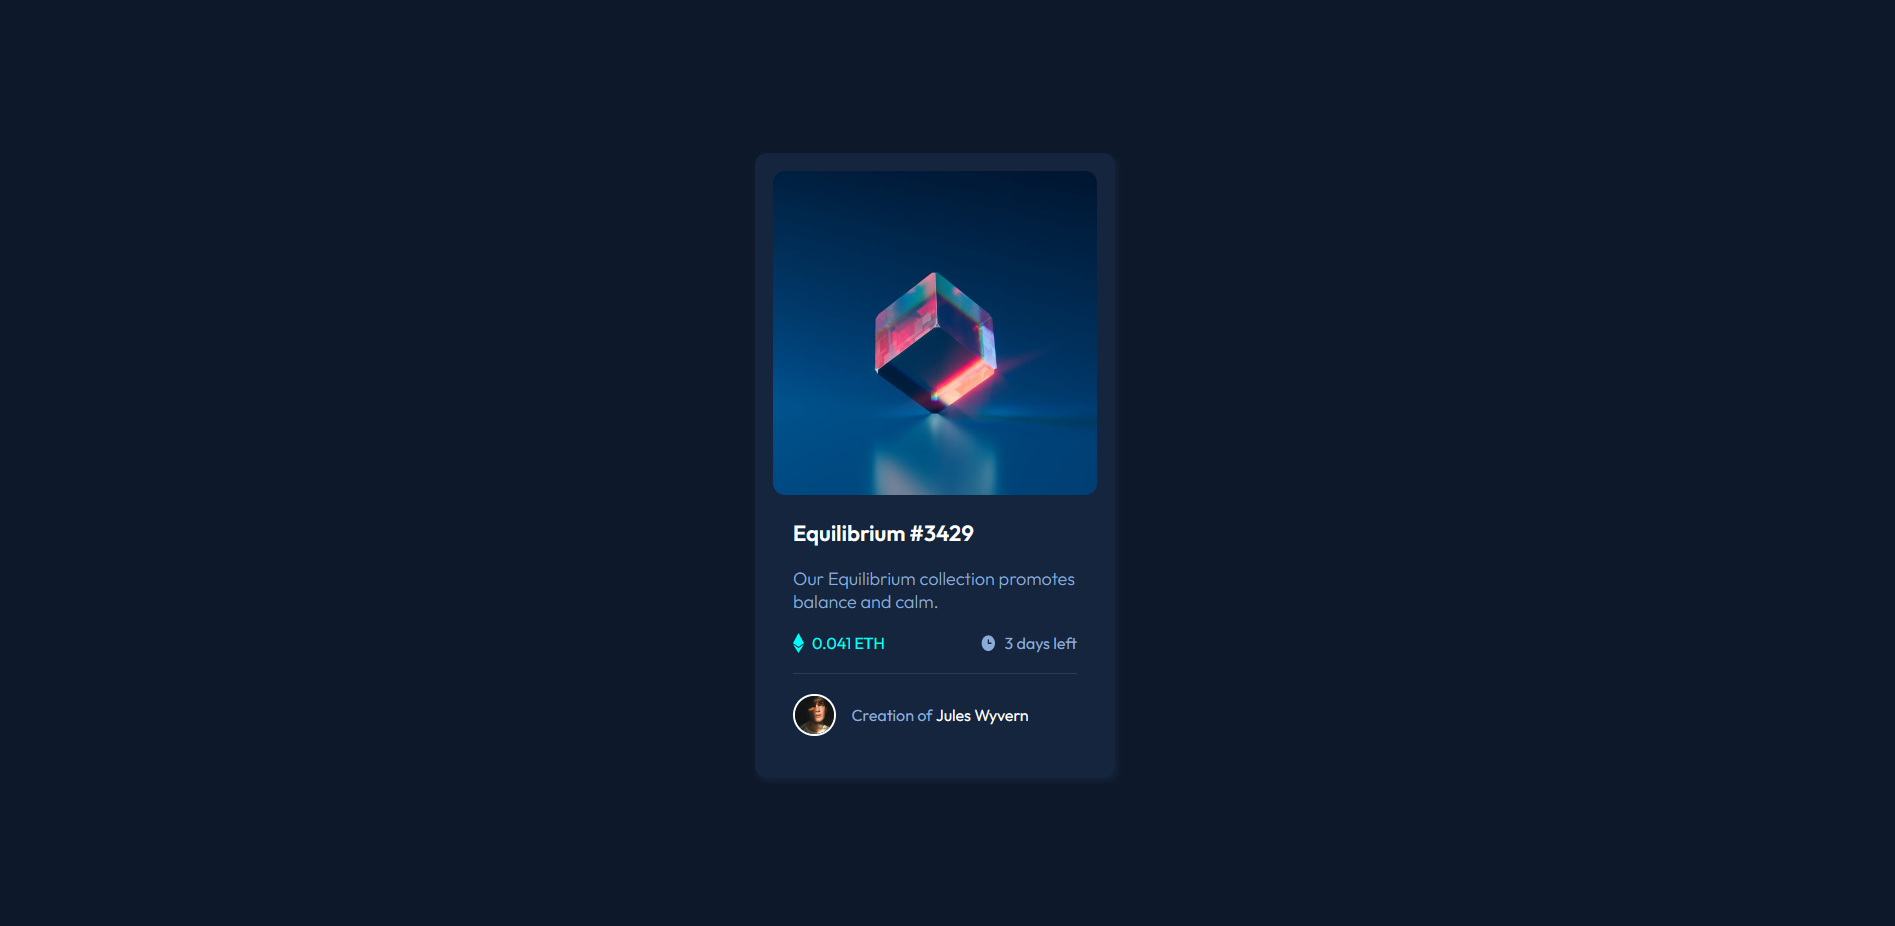
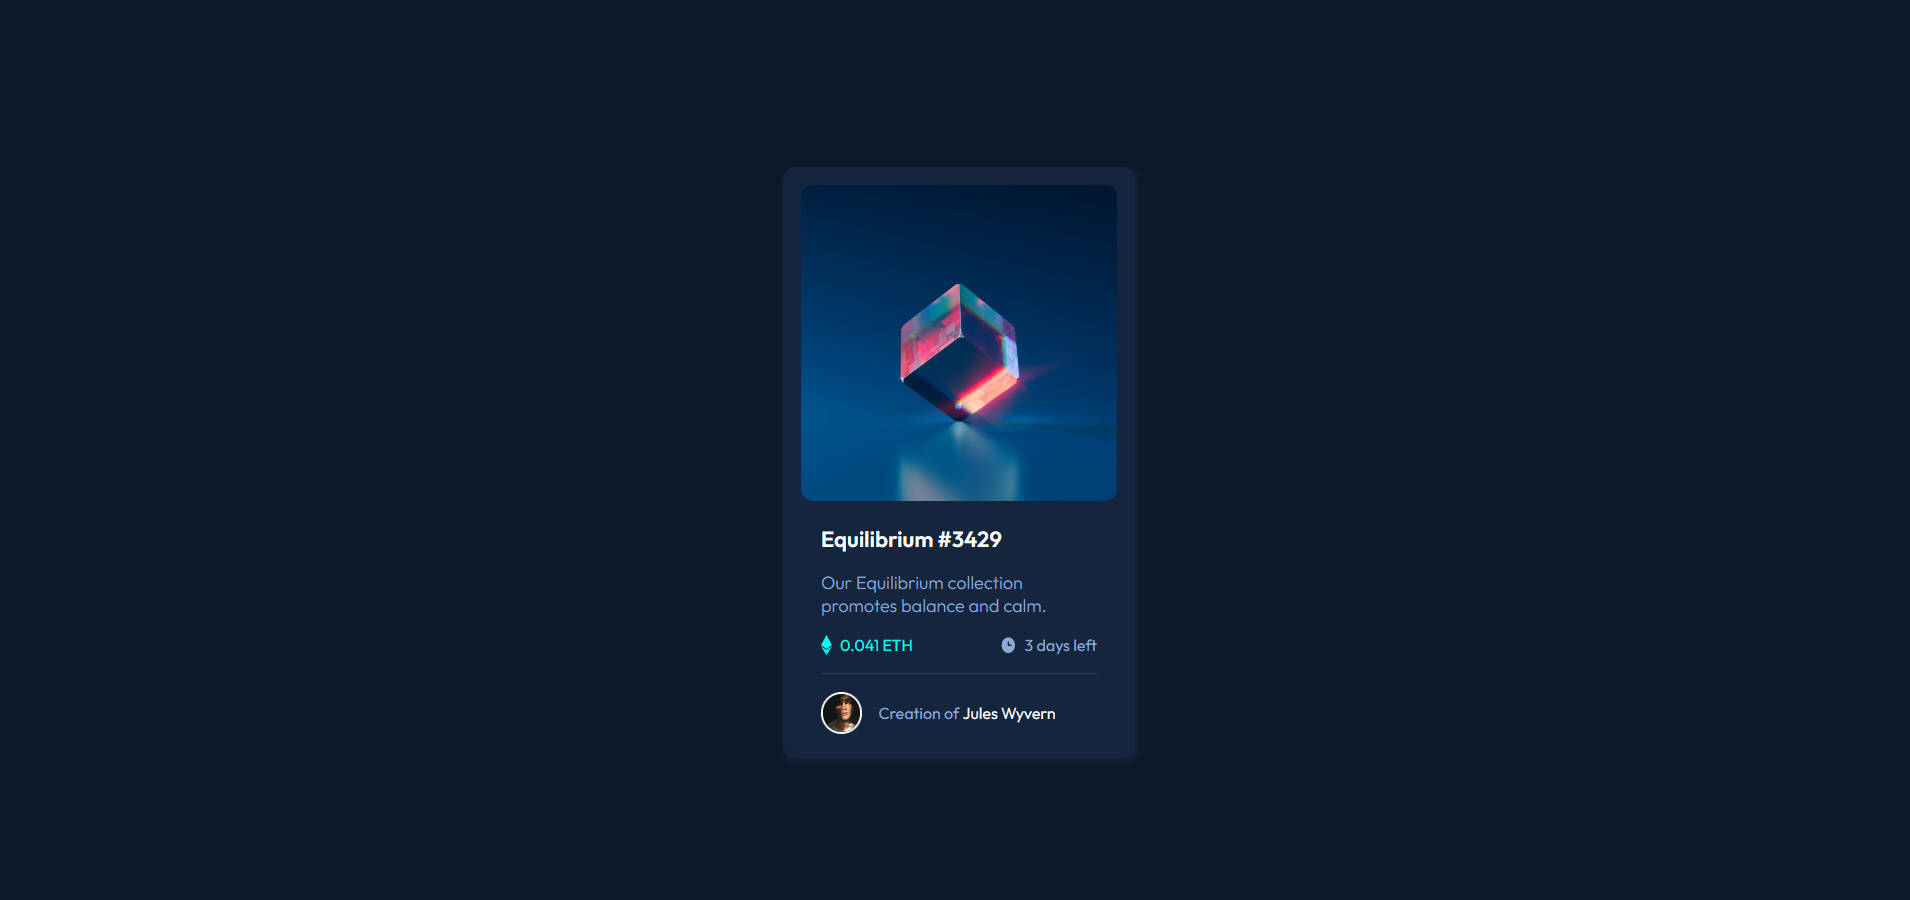
final update

Changed region(s): [[0.4047, 0.2489, 0.5916, 0.8089]]

diff --git a/css/style.css b/css/style.css
@@ -110,9 +110,10 @@ body {
 }
 
 .card {
-  max-width: 22.5rem;
+  max-width: 22rem;
   background-color: var(--dark-blue);
-  padding: clamp(0.75rem, 0.5rem + 2vw, 1.125rem);
+  padding-inline: clamp(0.75rem, 0.5rem + 2vw, 1.125rem);
+  padding-block-start: clamp(0.75rem, 0.5rem + 2vw, 1.125rem);
   border-radius: 0.75rem;
   box-shadow: 2px 3px 5px hsl(215, 32%, 27%, 0.25);
 }
@@ -147,7 +148,7 @@ body {
 }
 
 .card__text-content {
-  --flow-space: 1.25rem;
+  --flow-space: 1.125rem;
 
   padding-block: clamp(1.25rem, 0.5rem + 4vw, 1.5rem);
   padding-inline: clamp(1rem, 0.5rem + 3vw, 1.25rem);
